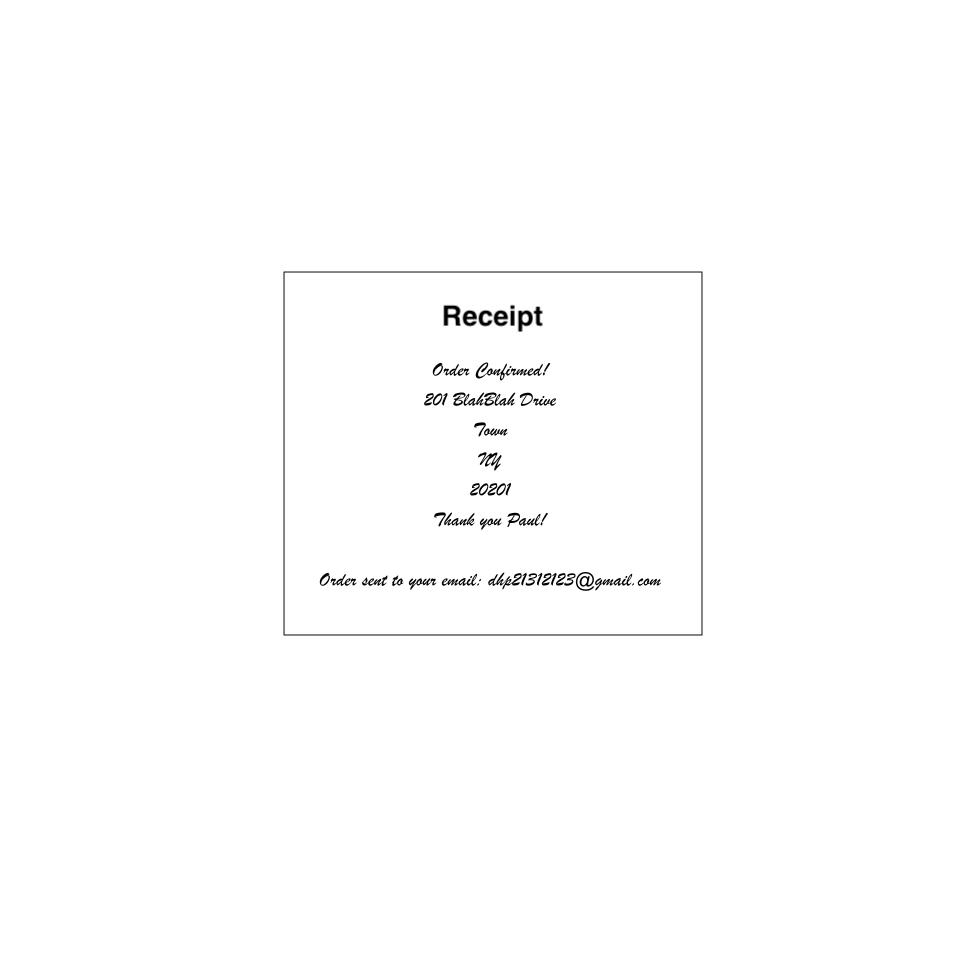
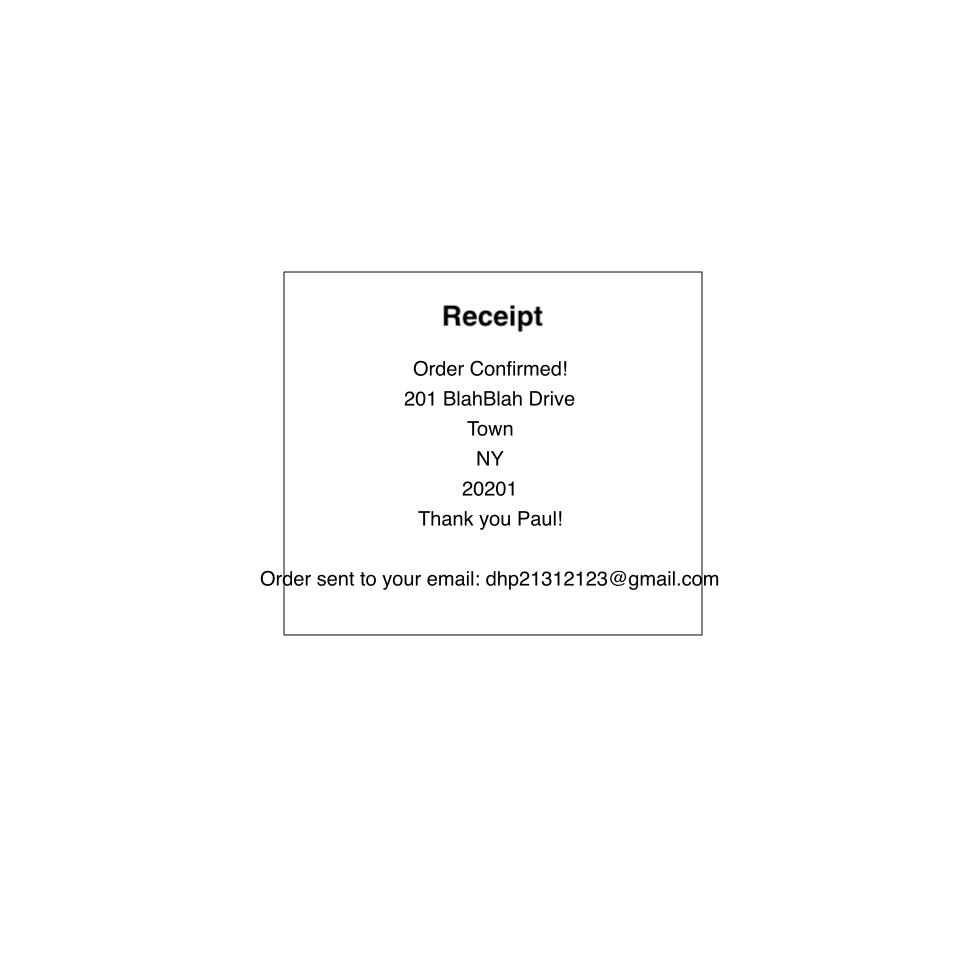
comic sans

Changed region(s): [[0.398, 0.3673, 0.5816, 0.551], [0.2755, 0.5816, 0.7347, 0.6122]]

diff --git a/app/api/frame/route.ts b/app/api/frame/route.ts
@@ -118,7 +118,7 @@ async function getResponse(req: NextRequest): Promise<NextResponse> {
     ctx.drawImage(image, 0, 0, canvas.width, canvas.height);
 
     // Set font properties
-    ctx.font = '20px Brush Script MT';
+    ctx.font = '20px Comic Sans';
     ctx.fillStyle = 'black';
     ctx.textAlign = 'center';
     ctx.textBaseline = 'middle';

diff --git a/app/tests/canvas.ts b/app/tests/canvas.ts
@@ -24,7 +24,7 @@ async function textOverlay() {
   ctx.drawImage(image, 0, 0, canvas.width, canvas.height);
 
   // Set font properties
-  ctx.font = '20px Brush Script MT';
+  ctx.font = '20px Comic Sans';
   ctx.fillStyle = 'black';
   ctx.textAlign = 'center';
   ctx.textBaseline = 'middle';
